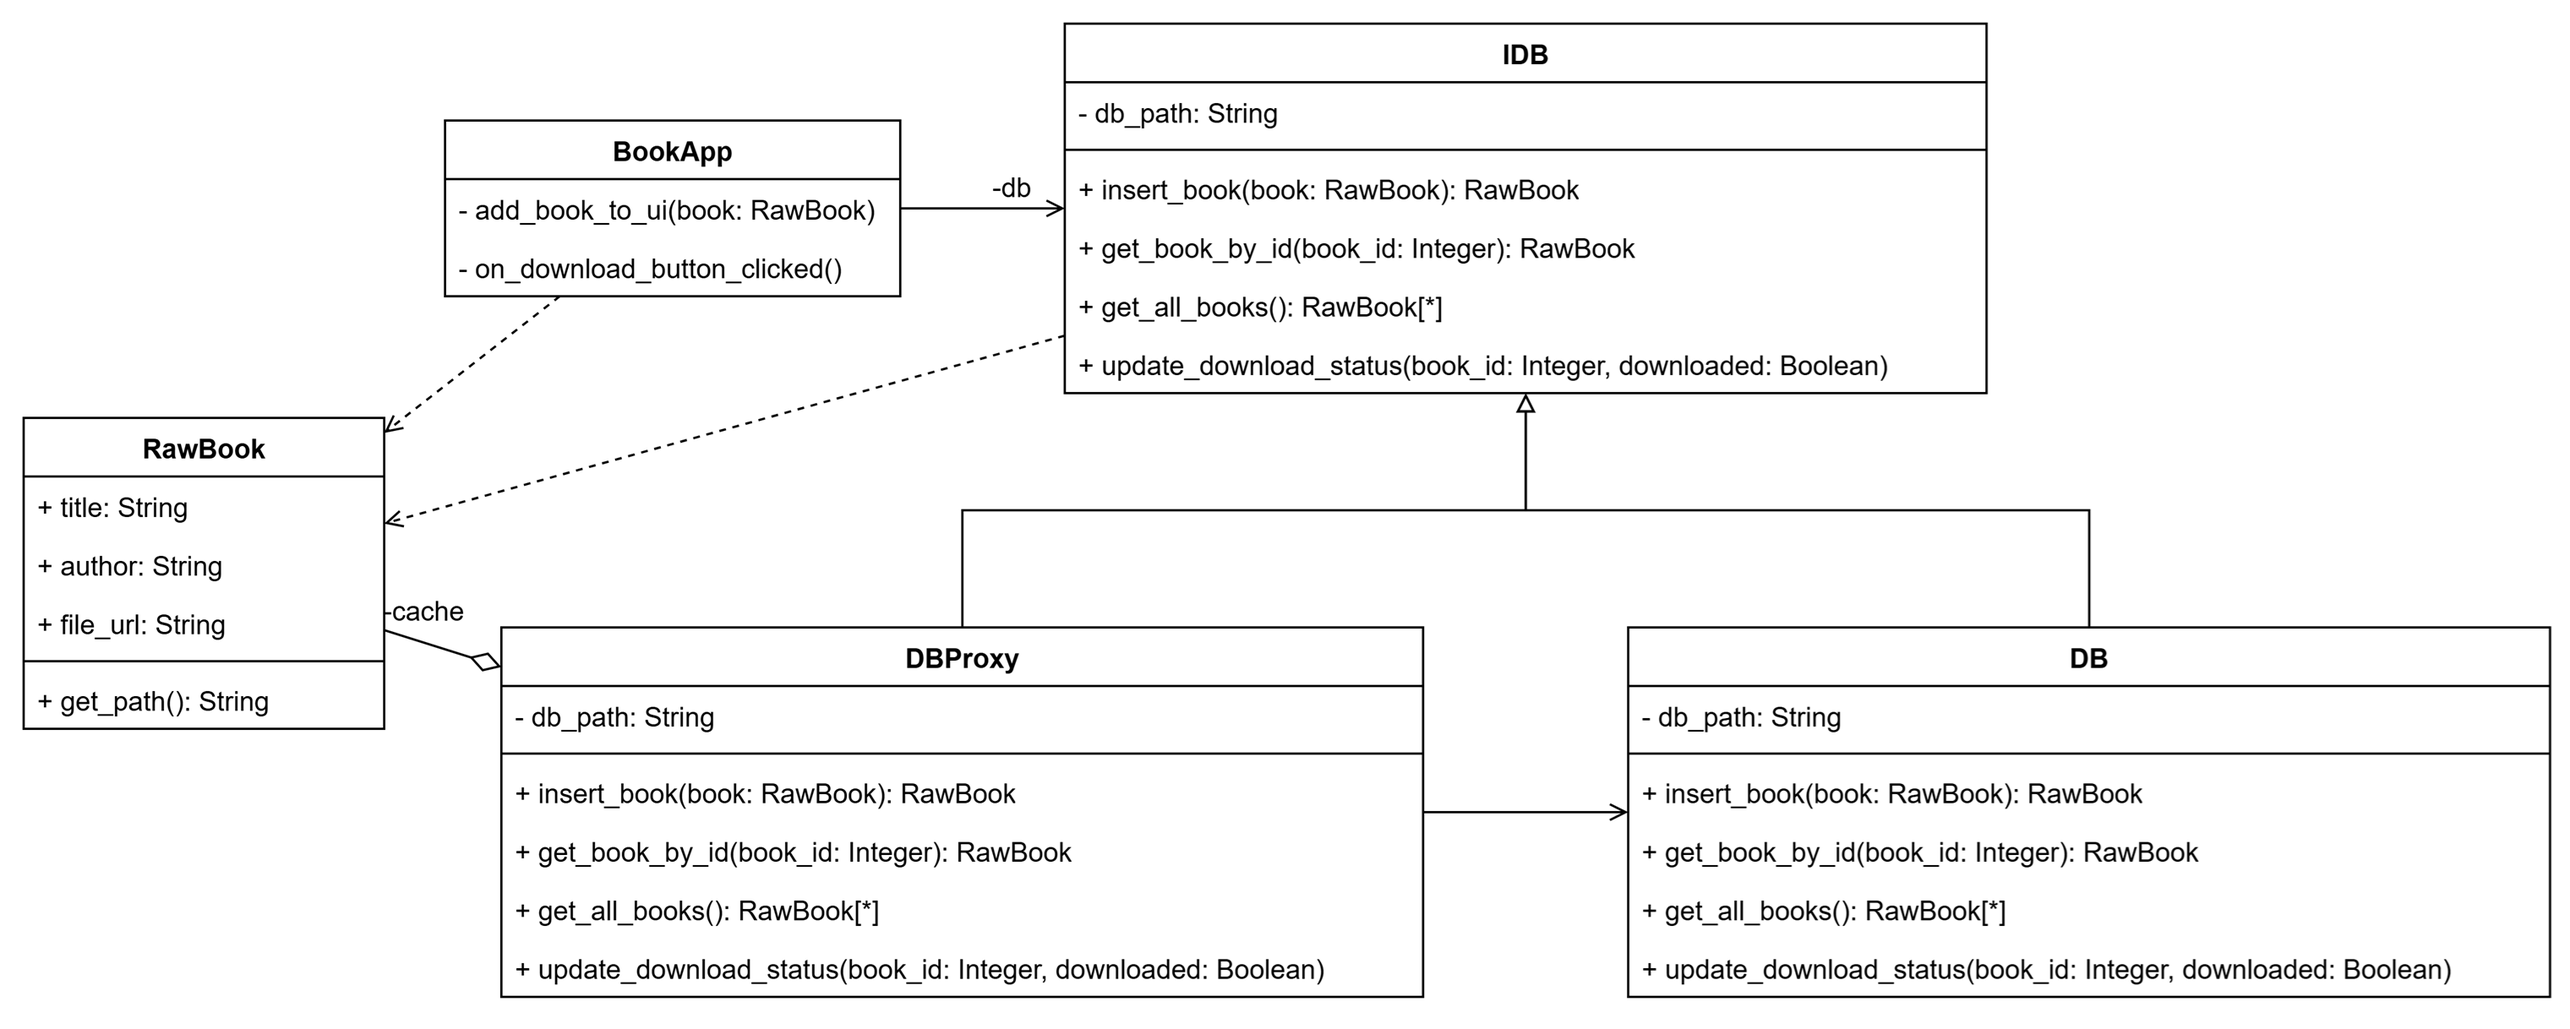
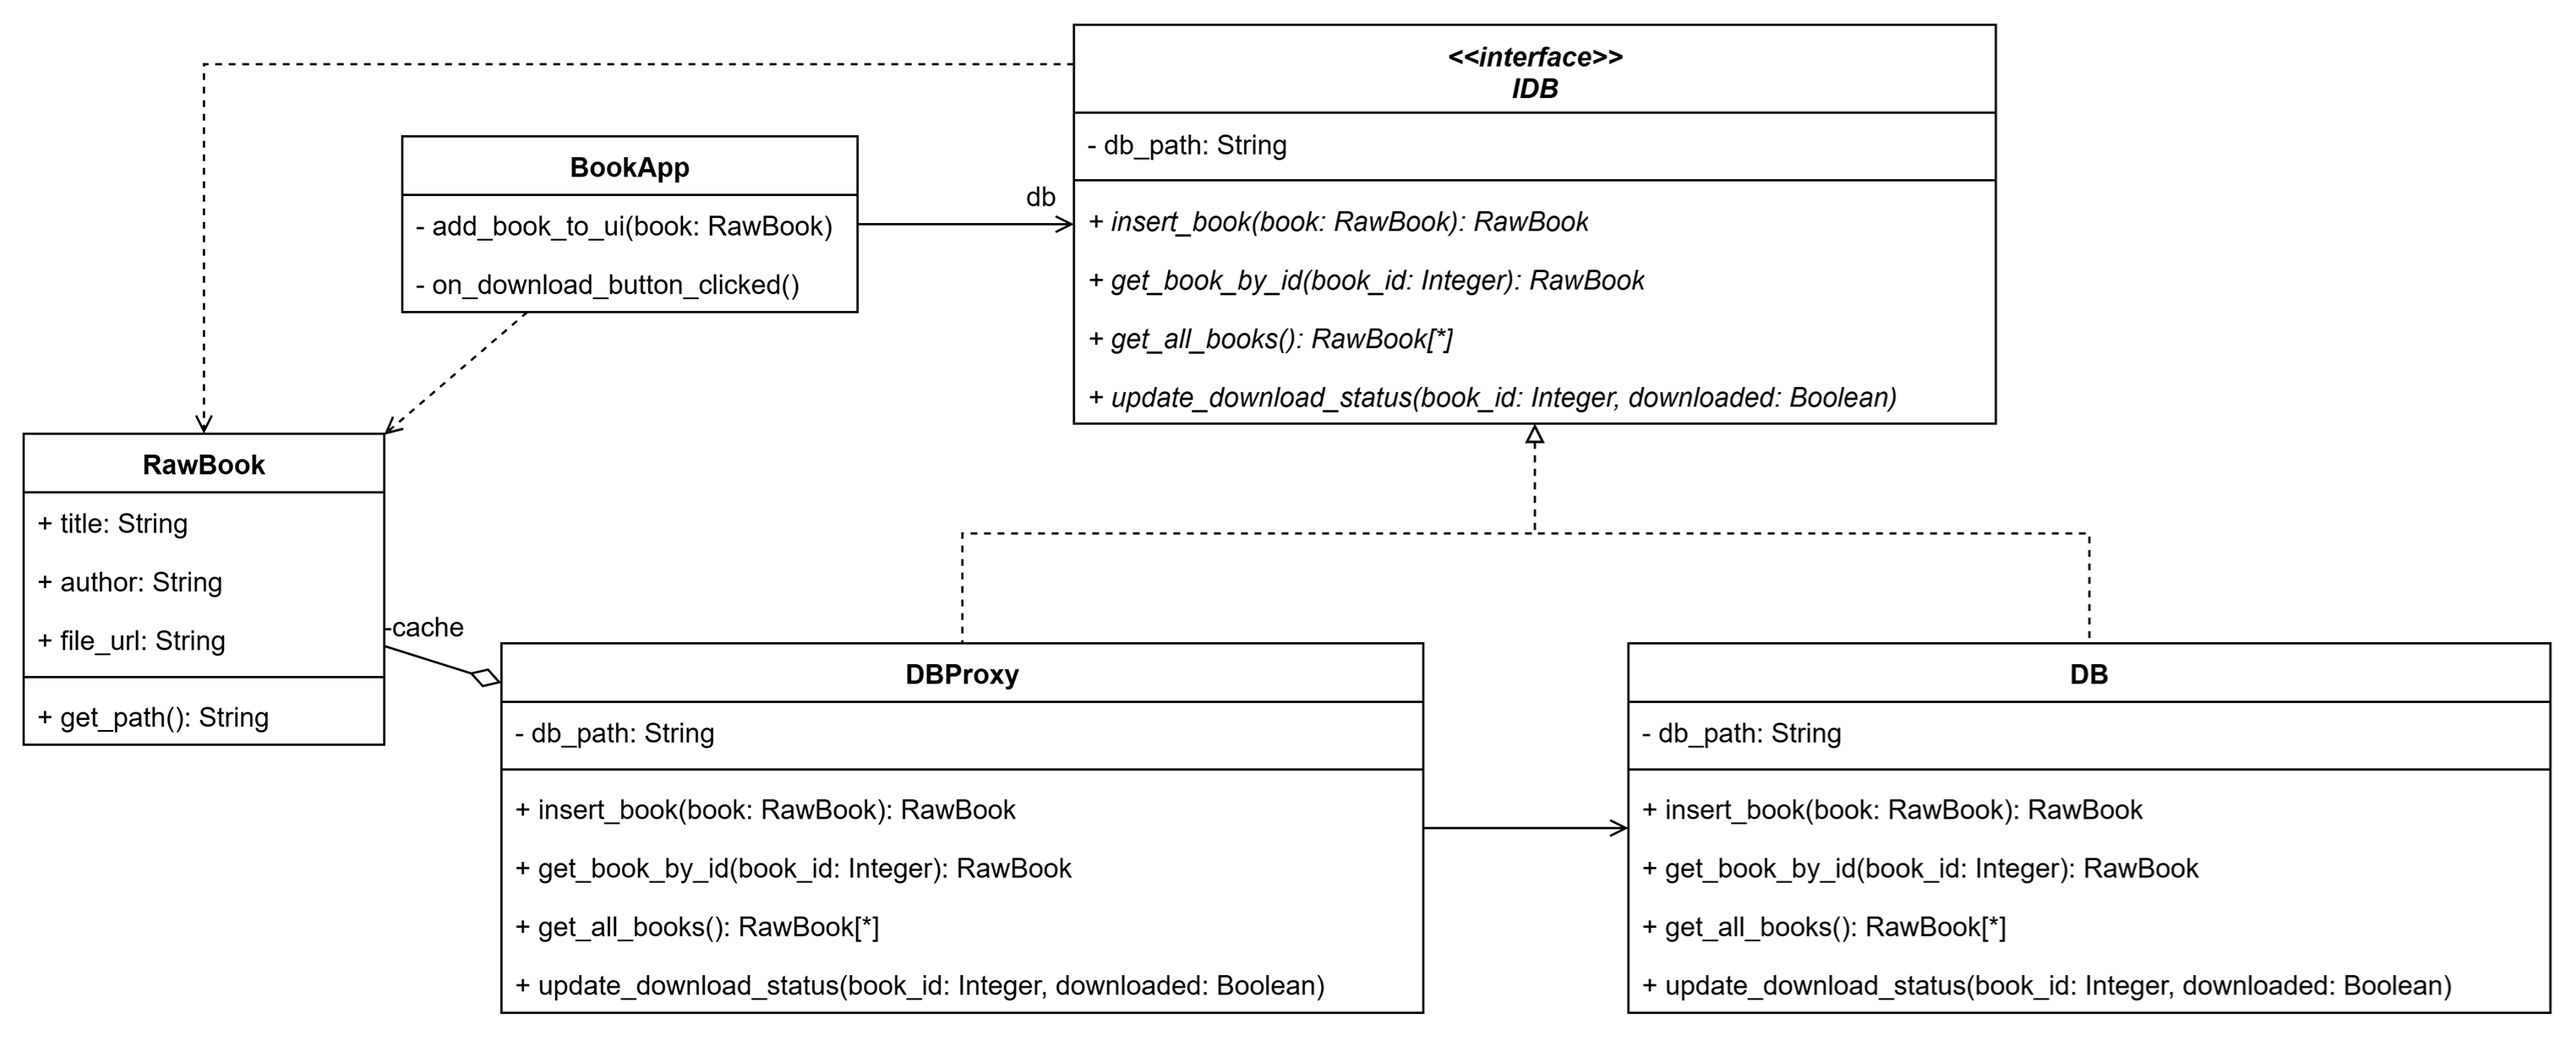
reademe and some fixes

diff --git a/lab02/cpp/src/main.cpp b/lab02/cpp/src/main.cpp
@@ -15,7 +15,7 @@ private:
 
     Gtk::Box* books_container;
 
-    std::unique_ptr<DBProxy> db;
+    std::unique_ptr<IDB> db;
 
     struct BookWidget {
         Gtk::Frame* frame;

diff --git a/lab02/cpp/src/db_proxy.hpp b/lab02/cpp/src/db_proxy.hpp
@@ -5,7 +5,7 @@
 #include <memory>
 #include "db.hpp"
 
-class DBProxy {
+class DBProxy : public IDB {
 private:
     std::string db_path;
     std::unique_ptr<IDB> db;

diff --git a/lab02/README.md b/lab02/README.md
@@ -18,7 +18,9 @@
 
 ![Диаграмма классов](docs/classes.png)
 
-`BookApp` -- Класс клиента. Он хранит ссылку на экземпляр класса реализующего интерфейс `IDB`. Этим экземпляром может быть как оригинальный `DB`, так и прокси `DBProxy`.
+`BookApp` -- Класс клиента. Он хранит ссылку на экземпляр класса реализующего интерфейс `IDB`.
+
+Этим экземпляром может быть как оригинальный `DB`, так и прокси `DBProxy`.
 
 Диаграмма объектов в этом случае будет следующией:
 
@@ -26,6 +28,10 @@
 
 Класс проксти явлется посредником между клиентом и базой данных.
 
-<!--## Вывод
+> В реализации без паттерна `Proxy` `BookApp` хранит ссылку на экземпляр класса `DB`. 
 
-Внедрение паттерна `Proxy` позвляет  -->
+## Вывод
+
+Внедрение паттерна `Proxy` в приложение ускорит работу приложения при больших объемах данных, при этом внедрение паттерна требует минимальных изменений в кодовой базе: необходим дополнительный класс, реализующий интерфейс `IDB`, и изменение всего одной строки кода в основной программе*, так как новый класс реализует тот же самый интерфейс, что и оригинальный класс `DB`.
+
+> `*` -- достаточно поменять инициализируемый класс в ![main.cpp](cpp/src/main.cpp#L41)
